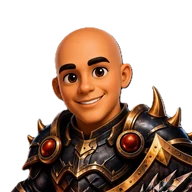
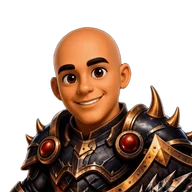
Troca a fonte da marca: a segunda arte não tinha franja preta na borda
Chegaram três candidatas para a mesma arte e a diferença só aparece medindo.

O PNG que estava no ar (Dragon2) fora recortado sobre fundo preto, e a borda
guardou isso: na faixa de meia-tinta a luminância média é 17 pontos MAIS ESCURA
que a do miolo — franja escura em volta do crânio, visível a 1:1. O PNG novo tem
a borda mais clara que o miolo, ou seja, ela carrega a cor da própria figura, e
não o preto de onde a figura foi tirada.

Um susto pelo caminho: o PNG novo acusava 28% dos pixels em alfa parcial, contra
4,7% do anterior — assinatura clássica de recorte por luminosidade, que teria
deixado a armadura translúcida. O histograma desmentiu: 431 mil desses pixels
estão em alfa 254, que é quantização, não transparência. Translucidez de 0,4%
não se vê.

O SVG foi descartado. É vetor de verdade (7.442 caminhos, nenhum raster
embutido), mas é um traçado automático em 92 cores chapadas, sem um gradiente:
o sombreado da pele virou faixas e o contorno do crânio ganhou degraus. Além
disso são 4,06 MB contra 163 KB do webp, e o primeiro caminho é um retângulo
preto cobrindo a tela inteira — o fundo que a gente justamente tirou.

Herói agora é 720x864; o atributo height do <img> acompanha, que é o que reserva
o espaço certo antes de a imagem carregar.

diff --git a/index.html b/index.html
@@ -21,7 +21,7 @@
   </style>
 </head><body>
 <header class="topbar"><nav class="nav shell" aria-label="Principal"><a class="brand" href="#inicio"><img src="brand/dragon-mark.webp" alt="" width="44" height="44"/><span class="brand-copy"><b>DRAGON GAMES</b><span>Jogos na mesa. No celular.</span></span></a><div class="nav-links"><a href="#jogos">Jogos</a><a href="https://github.com/DrMarioNascimento/Dragon" target="_blank" rel="noopener noreferrer">GitHub</a></div></nav></header>
-<section class="hero shell" id="inicio"><div class="hero-copy"><span class="eyebrow">Studio · Florianópolis<span class="ew-rest"> · Santa Catarina · Brazil</span></span><h1>Dragon <span>Games</span></h1><p>A place for fun and ideas! A hub for learning through games, projects, and new concepts. Make yourself at home and enjoy the mystery, the action, and the company. We’re all about peace, learning, and fun. Maybe some PvP down the line (lol). I’m a beginner, so tips and suggestions are welcome!</p></div><img class="emblem" src="brand/dragon.webp" alt="" width="720" height="862"/></section>
+<section class="hero shell" id="inicio"><div class="hero-copy"><span class="eyebrow">Studio · Florianópolis<span class="ew-rest"> · Santa Catarina · Brazil</span></span><h1>Dragon <span>Games</span></h1><p>A place for fun and ideas! A hub for learning through games, projects, and new concepts. Make yourself at home and enjoy the mystery, the action, and the company. We’re all about peace, learning, and fun. Maybe some PvP down the line (lol). I’m a beginner, so tips and suggestions are welcome!</p></div><img class="emblem" src="brand/dragon.webp" alt="" width="720" height="864"/></section>
 <section class="games shell" id="jogos"><div class="games-head"><span class="eyebrow">Catálogo</span><h2>Jogos</h2><p>Dois casos. Em cada um, três portas: a mesa, a noite e o modo solo.</p></div>
 <article class="game"><span class="game-number">01</span><span class="eyebrow">Dedução · festa</span><h3>MOSAICO <span class="case">- A Casa da Costa</span></h3><p>A verdade é um fragmento. Cada um no próprio celular, a casa na mesma sala. Três portas para o mesmo caso: a mesa, a noite e o modo solo.</p><div class="game-strip" aria-hidden="true"><img src="solo/tiles/carta-costa.jpg" alt=""/><img src="solo/tiles/foto-agenda.jpg" alt=""/><img src="solo/tiles/foto-gaveta.jpg" alt=""/><img src="solo/tiles/foto-noite.jpg" alt=""/><img src="solo/tiles/foto-farol.jpg" alt=""/></div><div class="topics"><span class="topic">1 a 12</span><span class="topic">QR</span><span class="topic">Lanternas</span></div><div class="versions"><div class="ver"><b>A mesa</b><span>Telão, QR e as lanternas originais. Quem já jogou, joga igual.</span><a class="btn btn-gold" href="v1/MOSAICO-mesa.html" target="_blank" rel="noopener noreferrer">Abrir a mesa</a></div><div class="ver"><b>A noite</b><span>Curta ou cheia. Foto partida, ficha de três linhas.</span><a class="btn btn-ember" href="v2/" target="_blank" rel="noopener noreferrer">Abrir a noite</a></div><div class="ver"><b>Modo solo</b><span>Laboratório de playtest: escolha A Mesa ou A Noite e complete a lotação com bots.</span><a class="btn btn-ghost" href="solo-lab.html" target="_blank" rel="noopener noreferrer">Ensaiar sozinho</a></div></div></article>
 <article class="game"><span class="game-number">02</span><span class="eyebrow">Dedução · manhã</span><h3>MOSAICO <span class="case">- A manhã do Carro-forte</span></h3><p>O banco abre. O carro-forte chega cedo. O relógio da farmácia não bate com o sino da igreja. Cada um vê um fragmento da mesma manhã.</p><div class="game-strip" aria-hidden="true"><img src="carro-forte/tiles/relogio.jpg" alt=""/><img src="carro-forte/tiles/o-banco.jpg" alt=""/><img src="carro-forte/tiles/o-carro-forte.jpg" alt=""/><img src="carro-forte/tiles/o-malote.jpg" alt=""/><img src="carro-forte/tiles/a-zona-cega.jpg" alt=""/></div><div class="topics"><span class="topic">1 a 12</span><span class="topic">Banco</span><span class="topic">7h42</span></div><div class="versions"><div class="ver"><b>A mesa</b><span>Perspectivas, fragmentos e dedução. A verdade montada sob pressão.</span><a class="btn btn-gold" href="carro-forte/" target="_blank" rel="noopener noreferrer">Jogar</a></div><div class="ver"><b>A noite</b><span>Reunião de fechamento, disputa por evidências e decisão. A manhã produziu os fatos. A noite decide o que eles permitem concluir.</span><a class="btn btn-ember" href="carro-forte-noite/" target="_blank" rel="noopener noreferrer">Abrir a noite</a></div><div class="ver"><b>Modo solo</b><span>Laboratório de playtest com lotação máxima e bots.</span><a class="btn btn-ghost" href="solo-lab.html" target="_blank" rel="noopener noreferrer">Ensaiar sozinho</a></div></div></article>
